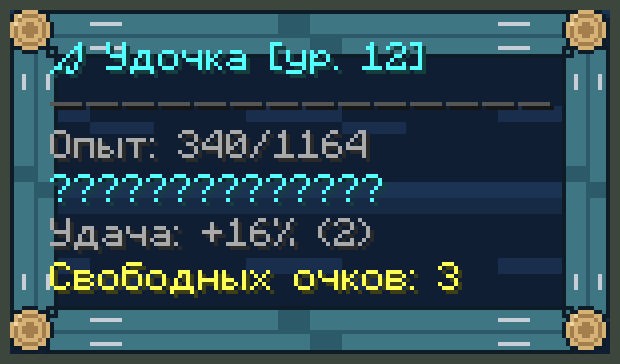
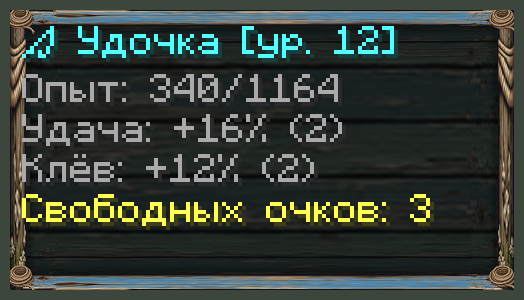
Тултип «море» v2: HD-рама из частей причала, тонкая, чтобы не закрывать текст
Claude-Session: https://claude.ai/code/session_015YcF29gpWmsD2yM9RNNMWT

diff --git a/ZenFishing/gui-specs/README.md b/ZenFishing/gui-specs/README.md
@@ -20,5 +20,5 @@
 (`catch.item-model` в config.yml) — отдельных yml предметов Nexo нет. Превью — `fish_icons_preview.png`.
 
 ## Тултип «море»
-`tooltip/sea_background.png`, `tooltip/sea_frame.png` (40x40, nine_slice border 12, как farm у квестов) → `assets/zenfishing/textures/gui/sprites/tooltip/`.
+`tooltip/sea_background.png`, `tooltip/sea_frame.png` (160x160 = 4x при логических 40x40, nine_slice border 12; рама 4 px из балки, столба и бухт верёвки причала, фон — тёмная стена причала) → `assets/zenfishing/textures/gui/sprites/tooltip/`.
 Ставится на удочку (`rod.tooltip-style`), пойманную рыбу (`catch.tooltip-style`) и меню (`menu.tooltip-style`) — `zenfishing:sea`. Превью — `tooltip/preview_sea_tooltip.png`.
